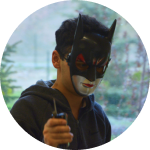
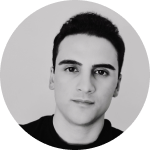
Some changes added

diff --git a/src/Pages/AboutUs.jsx b/src/Pages/AboutUs.jsx
@@ -4,6 +4,7 @@ import FunctionsMenu from "../Layouts/FunctionsMenu";
 import { ReactComponent as Logo1 } from "../Files/svgs/Logo1.svg";
 import umar from "../Files/pngs/Umar.png";
 import abo from "../Files/pngs/abo.png";
+import Umedjon from "../Files/pngs/Umedjon.png";
 import { ReactComponent as Quotemark } from "../Files/svgs/Quotemark.svg";
 import professor from "../Files/pngs/Muso.png";
 
@@ -61,7 +62,7 @@ const AboutUs = () => {
         <div className={style.div}>
           <figure className={style.img}>
             <img
-              src={umar}
+              src={Umedjon}
               alt="Umidbek Ulmasov"
               className={style.hover_shadow}
             />
